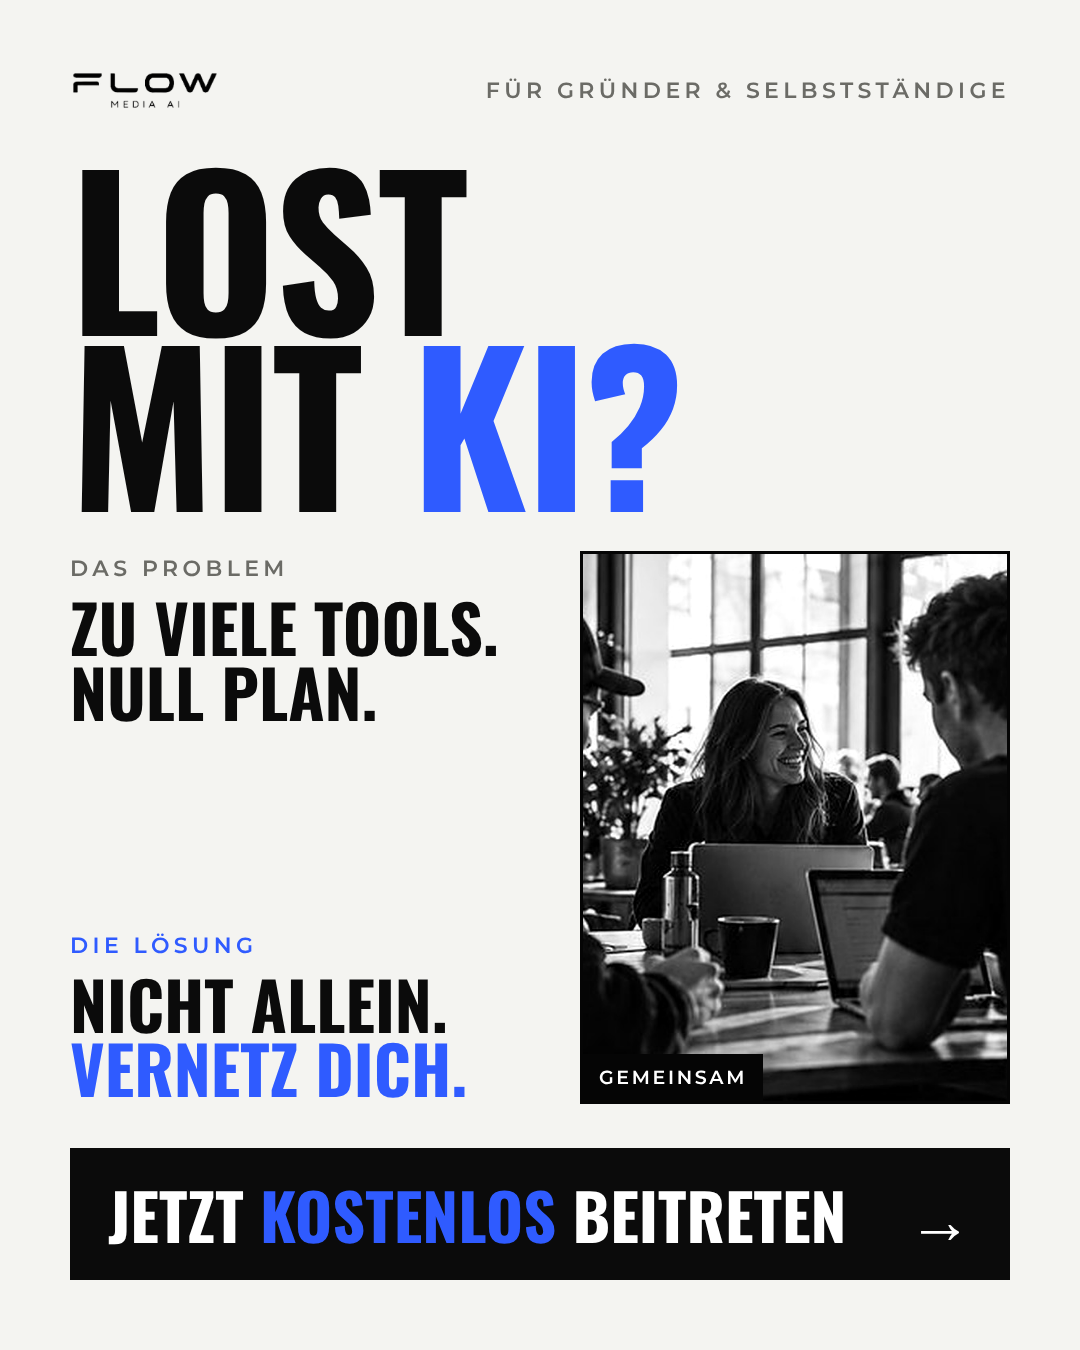
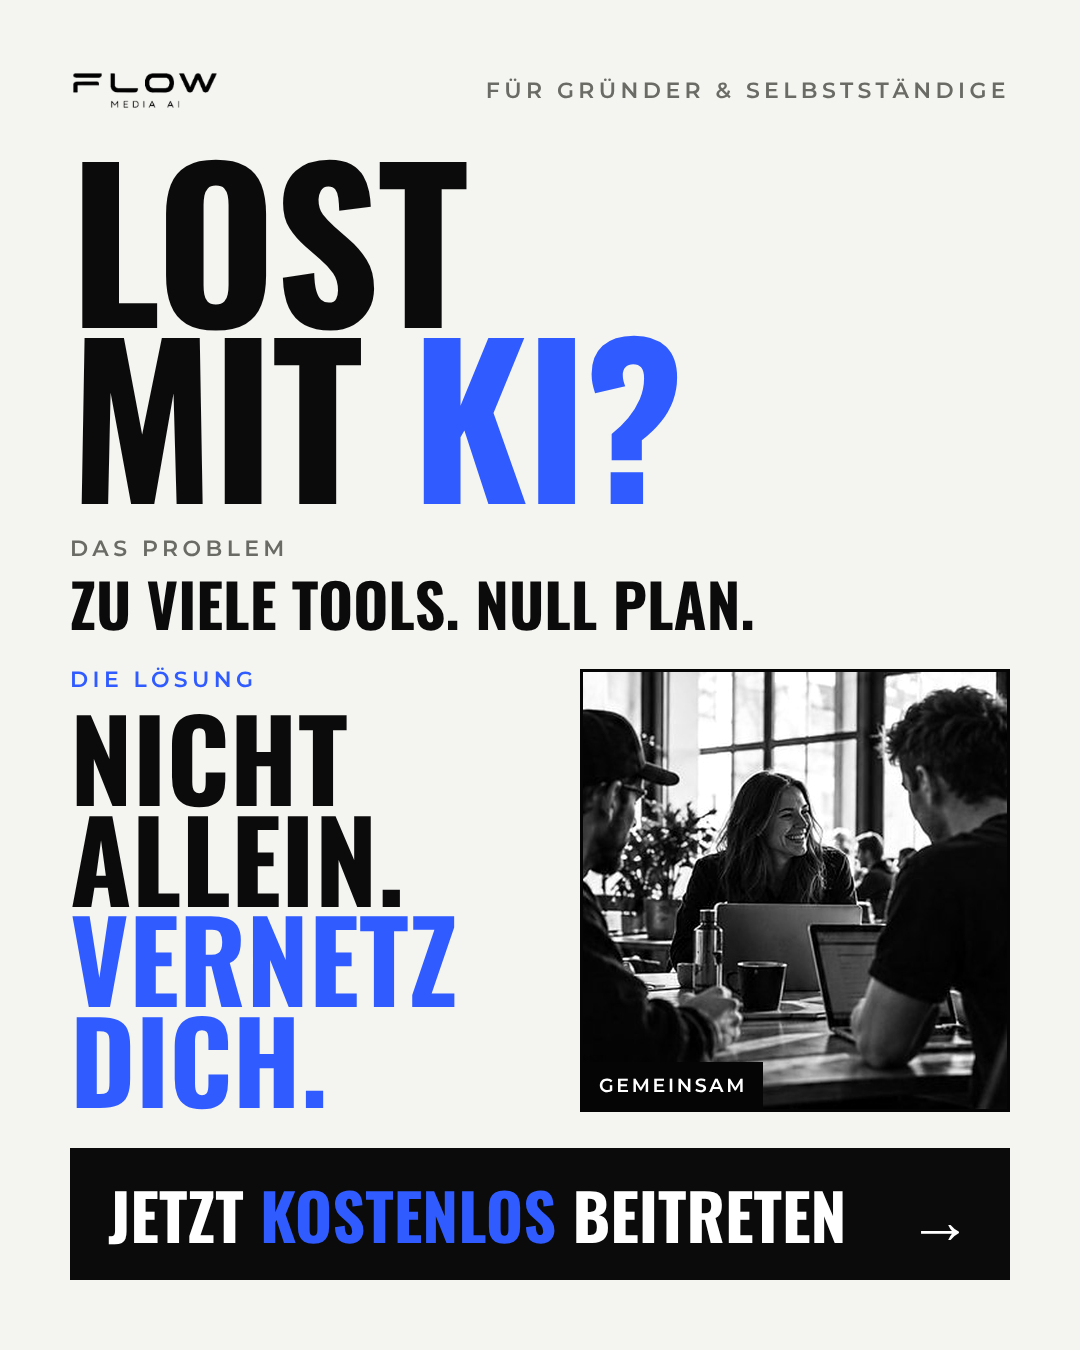
Community-Post: Lösung groß neben dem Bild
Claude-Session: https://claude.ai/code/session_013fteYFceKiG7Uk7Z2ie8Jy

diff --git a/marketing/community/ad/post.html b/marketing/community/ad/post.html
@@ -10,19 +10,18 @@ h1{font:700 205px/.86 Oswald;text-transform:uppercase;letter-spacing:-.01em}h1 e
 .row{display:flex;gap:40px;flex:1;min-height:0}
 .txt{flex:1;display:flex;flex-direction:column;justify-content:space-between;padding:4px 0}
 .k{font:600 22px Montserrat;letter-spacing:.2em;text-transform:uppercase;color:var(--mute);margin-bottom:12px}.k.b{color:var(--blue)}
-.t{font:700 66px/.98 Oswald;text-transform:uppercase}.t em{font-style:normal;color:var(--blue)}
+.t{font:700 60px/.98 Oswald;text-transform:uppercase}.t em{font-style:normal;color:var(--blue)}
 .line{height:3px;background:var(--ink);width:80px}
 .maik{flex:none;width:430px;background:url(../img/laptop_runde.jpg) 55% center/cover;filter:grayscale(1) contrast(1.05);border:3px solid var(--ink);position:relative}
 .maik span{position:absolute;left:0;bottom:0;background:var(--ink);color:#fff;font:600 19px Montserrat;letter-spacing:.14em;text-transform:uppercase;padding:12px 16px}
 .cta{background:var(--ink);color:#fff;font:700 64px/1 Oswald;text-transform:uppercase;padding:34px 38px;align-items:center;display:flex;justify-content:space-between}.cta em{font-style:normal;color:var(--blue)}
-</style></head><body><div class="p">
+.sol{font:700 112px/.9 Oswald;text-transform:uppercase}.sol em{font-style:normal;color:var(--blue)}.txt{justify-content:flex-end!important}.p{gap:36px!important}</style></head><body><div class="p">
  <div class="top"><img src="../img/logo_flow.png"><span class="lab">Für Gründer &amp; Selbstständige</span></div>
  <h1>Lost<br>mit <em>KI?</em></h1>
+ <div><p class="k">Das Problem</p><p class="t">Zu viele Tools. Null Plan.</p></div>
  <div class="row">
   <div class="txt">
-   <div><p class="k">Das Problem</p><p class="t">Zu viele Tools.<br>Null Plan.</p></div>
-   
-   <div><p class="k b">Die Lösung</p><p class="t">Nicht allein.<br><em>Vernetz dich.</em></p></div>
+   <div><p class="k b">Die Lösung</p><p class="sol">Nicht<br>allein.<br><em>Vernetz<br>dich.</em></p></div>
   </div>
   <div class="maik"><span>Gemeinsam</span></div>
  </div>
